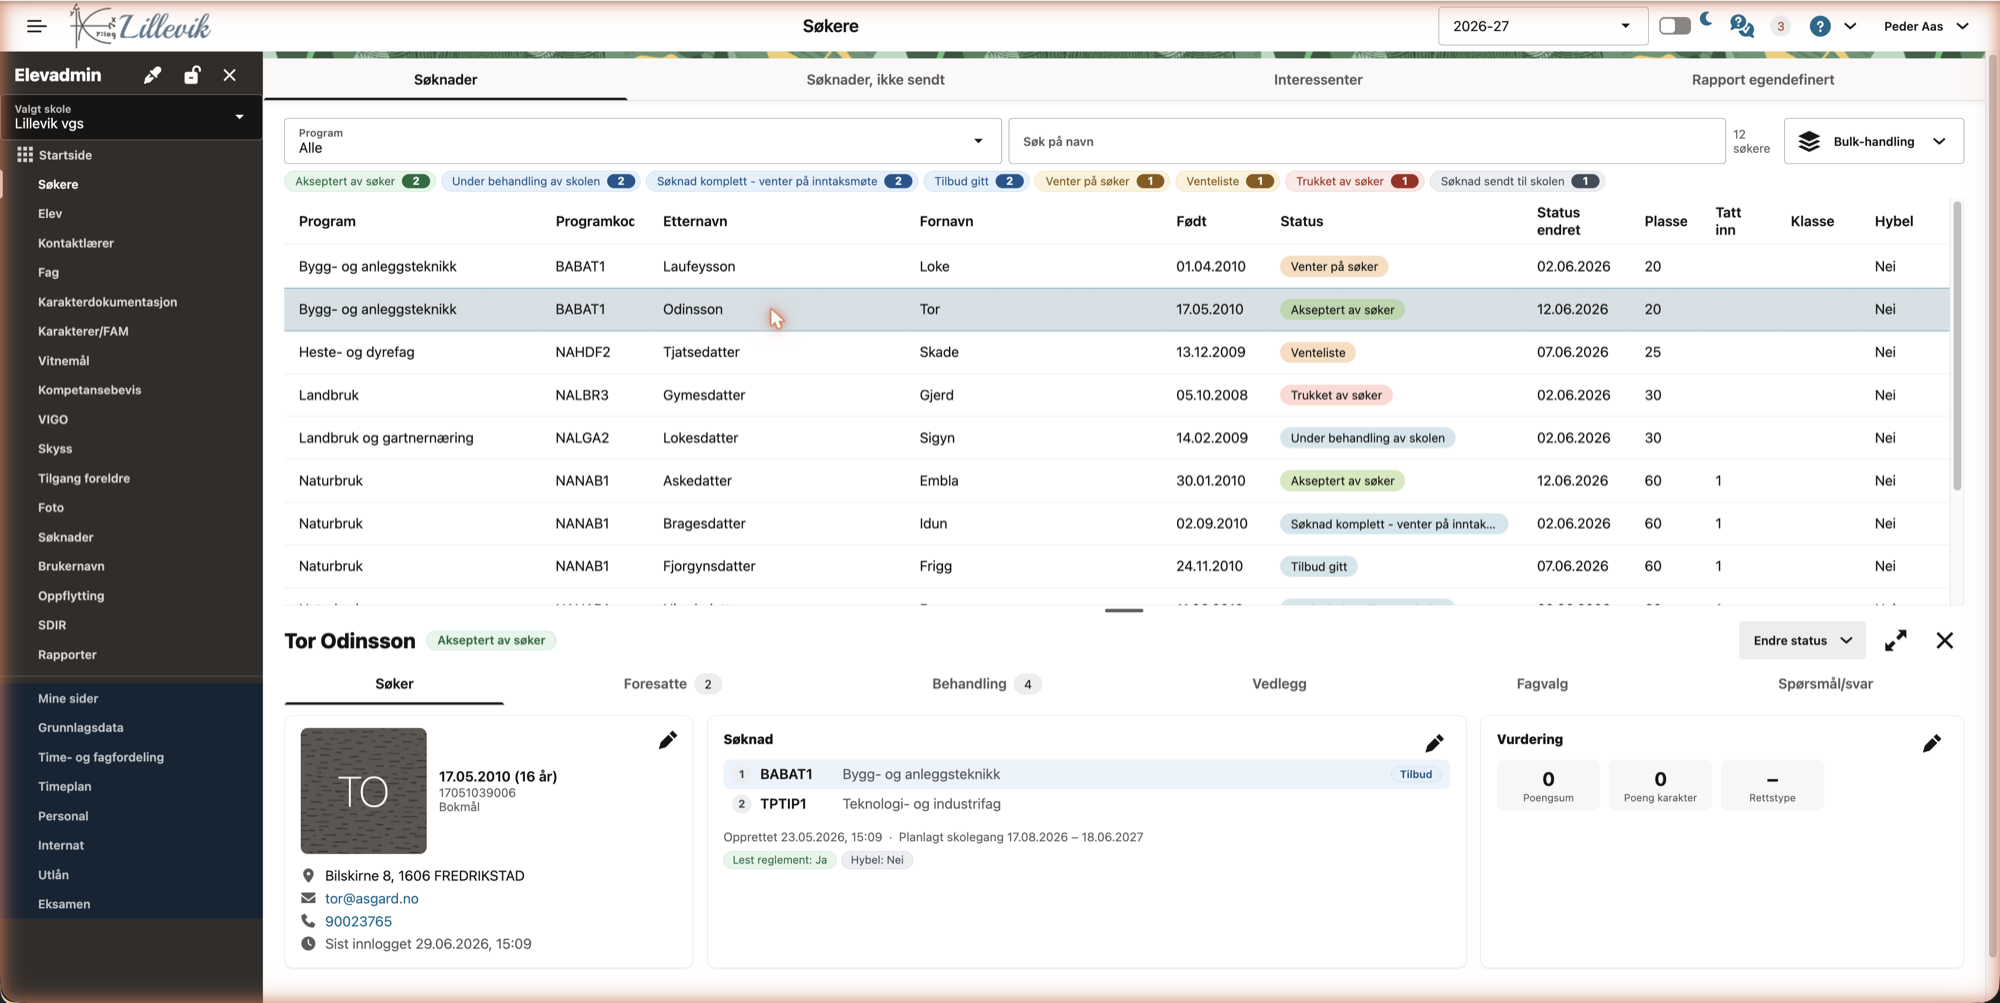
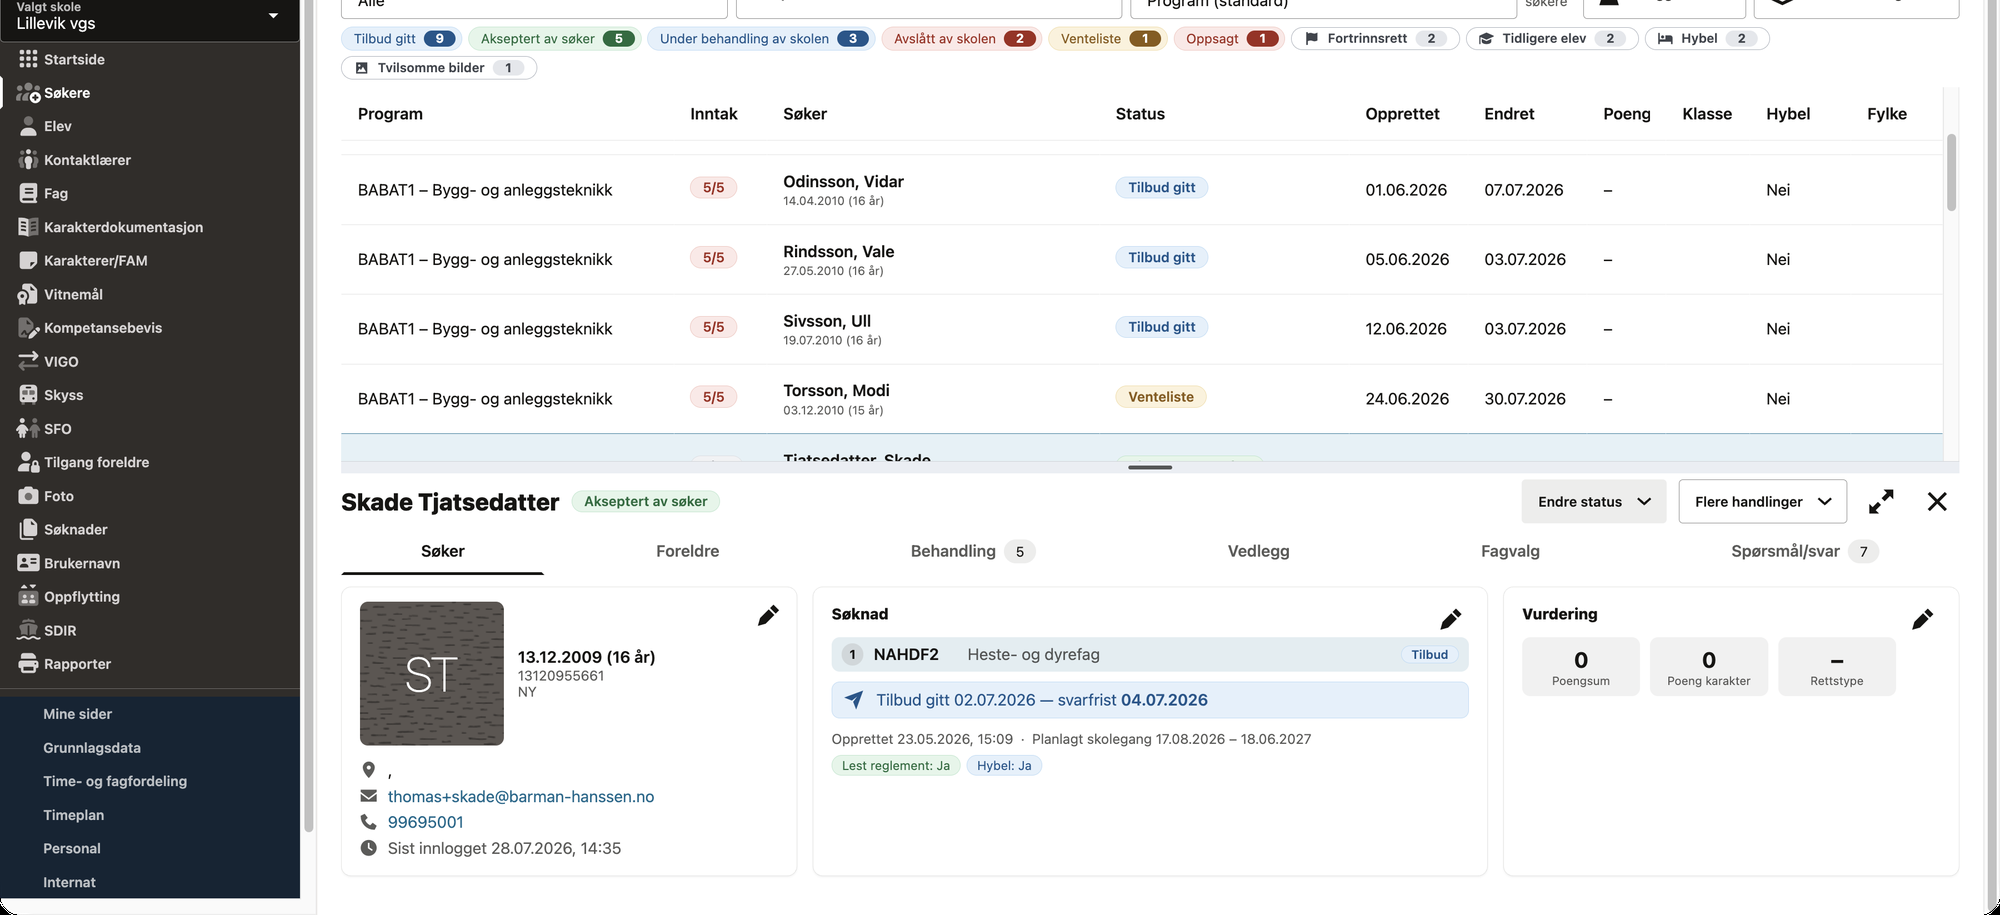
Nye bilder for elevadmin

diff --git a/iskole/docs/ea_sokere.md b/iskole/docs/ea_sokere.md
@@ -17,9 +17,6 @@ mange søkere samtidig.
 
 ![Søkerlisten](/img/soker_oversikt.png 'Søkerlisten')
 
-<!-- TODO skjermbilde: reta soker_oversikt.png (2026-27) — kolonnelayouten
-     er endret: stablede celler, Inntak, Kontakt, Opprettet, Poeng og
-     sorteringsvelger. Tas med Playwright når siden er mer ferdig. -->
 
 Øverst til høyre velger du skoleår. Listen er komprimert slik at mye
 informasjon får plass uten sidescrolling — flere kolonner har en primær-
@@ -45,8 +42,7 @@ Etter status-chipsene ligger **egenskapsfiltre** med egen, nøytral stil:
 med antall. De kan kombineres med program, søk og statusfilter, og er
 nyttige for å prioritere i inntaket.
 
-<!-- TODO skjermbilde: statusstripen med egenskapsfiltrene, gjerne ett
-     aktivt (2026-27). -->
+![Egenskapsfiltre](/img/soker_egenskapsfiltre.png 'Egenskapsfiltre — «Tidligere elev» aktivt')
 
 **Statusstripen** rett under filtrene viser hvor mange søknader som står i
 hver status. Klikk på en status for å filtrere listen til bare de
@@ -63,7 +59,7 @@ navn** filtrerer mens du skriver (fornavn eller etternavn).
 endret**. Opprettet-sorteringen er laget for grunnskole-inntak, der
 søkerne ikke rangeres og tidspunktet søknaden kom inn er avgjørende.
 
-<!-- TODO skjermbilde: sorteringsvelgeren åpen med valgene (2026-27). -->
+![Sortering](/img/soker_sortering.png 'Sorteringsvalgene')
 
 ### Inntak-kolonnen
 
@@ -74,14 +70,34 @@ fullt (fra 80 %) og rødt når alle plassene er tildelt.
 
 ![Inntak-kolonnen](/img/soker_inntak.png 'Inntak — opptatt av konsesjon')
 
-<!-- TODO skjermbilde: reta soker_inntak.png (og soker_filter.png,
-     soker_detalj.png) — tabellayouten er endret etter at bildene ble
-     tatt. Tas samlet med Playwright. -->
 
 Systemet håndhever konsesjonen: når alle plassene er tildelt, avvises nye
 tilbud — både enkeltvis og i bulk — med beskjed om hvor mange som er
 inntatt eller har aktivt tilbud. Plasser frigjøres når tilbud avslås,
 søknader trekkes eller søkere avvises.
+
+### Inntak-fanen
+
+**Inntak**-fanen gir fugleperspektivet på inntaket — tallene bak
+Inntak-merkene, samlet per program. Øverst står nøkkeltallene for hele
+skolen: **Søkere**, **Plasser**, **Inntatt**, **I prosess**, **Ledig** —
+og, når det gjelder, antall **fulle programmer** og programmer **uten
+plasstall**.
+
+![Inntak-fanen](/img/soker_inntak_fane.png 'Inntak — nøkkeltall og programtabell')
+
+Tellingen er den samme som Inntak-kolonnen og overbookingsvakten bruker:
+
+- **Inntatt** — elever som står i programmets klasser.
+- **I prosess** — aktive tilbud (tilbud gitt, akseptert, kontrakt) som
+  ennå ikke er plassert.
+- **Ledig** — plasser − inntatt − i prosess.
+
+Tabellen under viser det samme per program, med fargebånd når et program
+er fullt eller nærmer seg. Programradene kan utvides for å se søkerne som
+teller med. Merk at søkere plasseres i klasse med programkoden de fikk
+tilbud på — endres elevens programkode senere, frigjøres plassen på
+tilbudsprogrammet.
 
 Fanene øverst gir i tillegg:
 
@@ -98,11 +114,14 @@ Fanene øverst gir i tillegg:
   fulgt opp eller har søkt kan **slettes** fra listen — en eventuell
   registrert søknad påvirkes ikke.
 
-<!-- TODO skjermbilde: Søknader ikke sendt-fanen og Interessenter-fanen
-     med stablede celler og slett-knapp (2026-27). -->
 - **Rapport egendefinert** — tabellrapport over alle søkere der du selv
   velger hvilke kolonner som skal med (kolonnevelger), og kan eksportere
   til Excel.
+
+![Søknader, ikke sendt](/img/soker_ikke_sendt.png 'Søknader, ikke sendt')
+
+![Interessenter](/img/soker_interessenter.png 'Interessenter')
+
 
 ## Søkeren i detalj
 
@@ -132,8 +151,7 @@ telefon, adresse og om forelderen skal **varsles på e-post**), og mangler
 en forelder kan den legges til. Som med personalia låses kortene når
 søkeren er plassert i klasse.
 
-<!-- TODO skjermbilde: Foreldre-fanen med ett kort i redigeringsmodus
-     (2026-27). -->
+![Rediger forelder](/img/soker_foreldre_rediger.png 'Foreldre — kort i redigeringsmodus')
 
 **Behandling**-fanen viser hele statushistorikken for søknaden — hvert
 steg med tidspunkt og hvem som gjorde endringen. Rader med e-postvarsel
@@ -151,8 +169,7 @@ søppelpost) — be om ny adresse eller varsle på annen måte.
 bekreftelse — kopier i elevmappen påvirkes ikke) og **arkivere
 enkeltvedlegg til elevmappen** når søkeren er plassert i klasse.
 
-<!-- TODO skjermbilde: Vedlegg-fanen med verktøylinjen og
-     opplastingsdialogen (2026-27). -->
+![Vedlegg](/img/soker_vedlegg.png 'Vedlegg — med opplastingsdialogen')
 
 **Fagvalg** og **Spørsmål/svar** viser søkerens valg og svar fra
 søknaden.
@@ -189,8 +206,7 @@ Behandling-fanen slik at dere alltid kan se hva som ble sendt. Det samme
 gjelder bulk-handlinger — da får alle de valgte søkerne samme melding,
 og mottakervalget gjøres per rolle (søkeren, forelder 1, forelder 2).
 
-<!-- TODO skjermbilde: statusendrings-dialogen med varslingsseksjonen
-     utfylt (2026-27). -->
+![Statusendring med varsling](/img/soker_varsling_dialog.png 'Gi tilbud — brev og varsling')
 
 Skulle en kollega ha endret søknaden mens du så på den, stoppes
 endringen trygt med beskjed om å laste siden på nytt — ingenting
@@ -246,6 +262,24 @@ bulk-varianten (se under) — men for denne ene søkeren.
 
 ![Plasser i klasse — én søker](/img/soker_plasser_dialog.png 'Plasser i klasse')
 
+### Sett status — angre og gjenopprette
+
+**Sett status** er den administrative nødutgangen når noe er gjort feil
+eller en søknad skal gjenopprettes: den setter søknaden til en status du
+velger fritt, uavhengig av de vanlige overgangene — for eksempel tilbake
+fra «Trukket av søker» til venteliste, eller fra avslag til nytt tilbud.
+
+![Sett status](/img/soker_sett_status.png 'Sett status — fritt statusvalg')
+
+Handlingen går i to trinn: velg ny status, og bekreft deretter i den
+vanlige statusendringsdialogen — med samme varslingsseksjon, så søker og
+foresatte kan få beskjed også når statusen settes administrativt.
+Sikkerhetsnettene gjelder fortsatt: endringer gjort av andre i mellomtiden
+stopper handlingen, konsesjonsvakten slår inn hvis et tilbud ville
+overbooket et fullt program, og endringen logges med ditt navn i
+Behandling-fanen — historikken beholdes alltid. Sett status gjøres bevisst
+bare på én søker om gangen, aldri i bulk.
+
 ### Slett søknad
 
 Sletter søknaden med hele behandlingshistorikken. Er dette søkerens eneste
@@ -281,8 +315,7 @@ banneret **«Velg de N første»** — den krysser av de eldste søknadene
 (fortrinnsrett først, deretter opprettet-tidspunkt) inntil de ledige
 plassene er fylt. Kontroller utvalget og trykk Kjør.
 
-<!-- TODO skjermbilde: bulk-banneret med «Velg de N første»-knappen og
-     utvalget fylt (2026-27, gjerne et grunnskoleprogram). -->
+![Velg de N første](/img/soker_bulk_forste.png 'Bulk — «Velg de N første» fyller ledige plasser')
 
 **Kjør** åpner en oppsummering før noe skjer:
 
